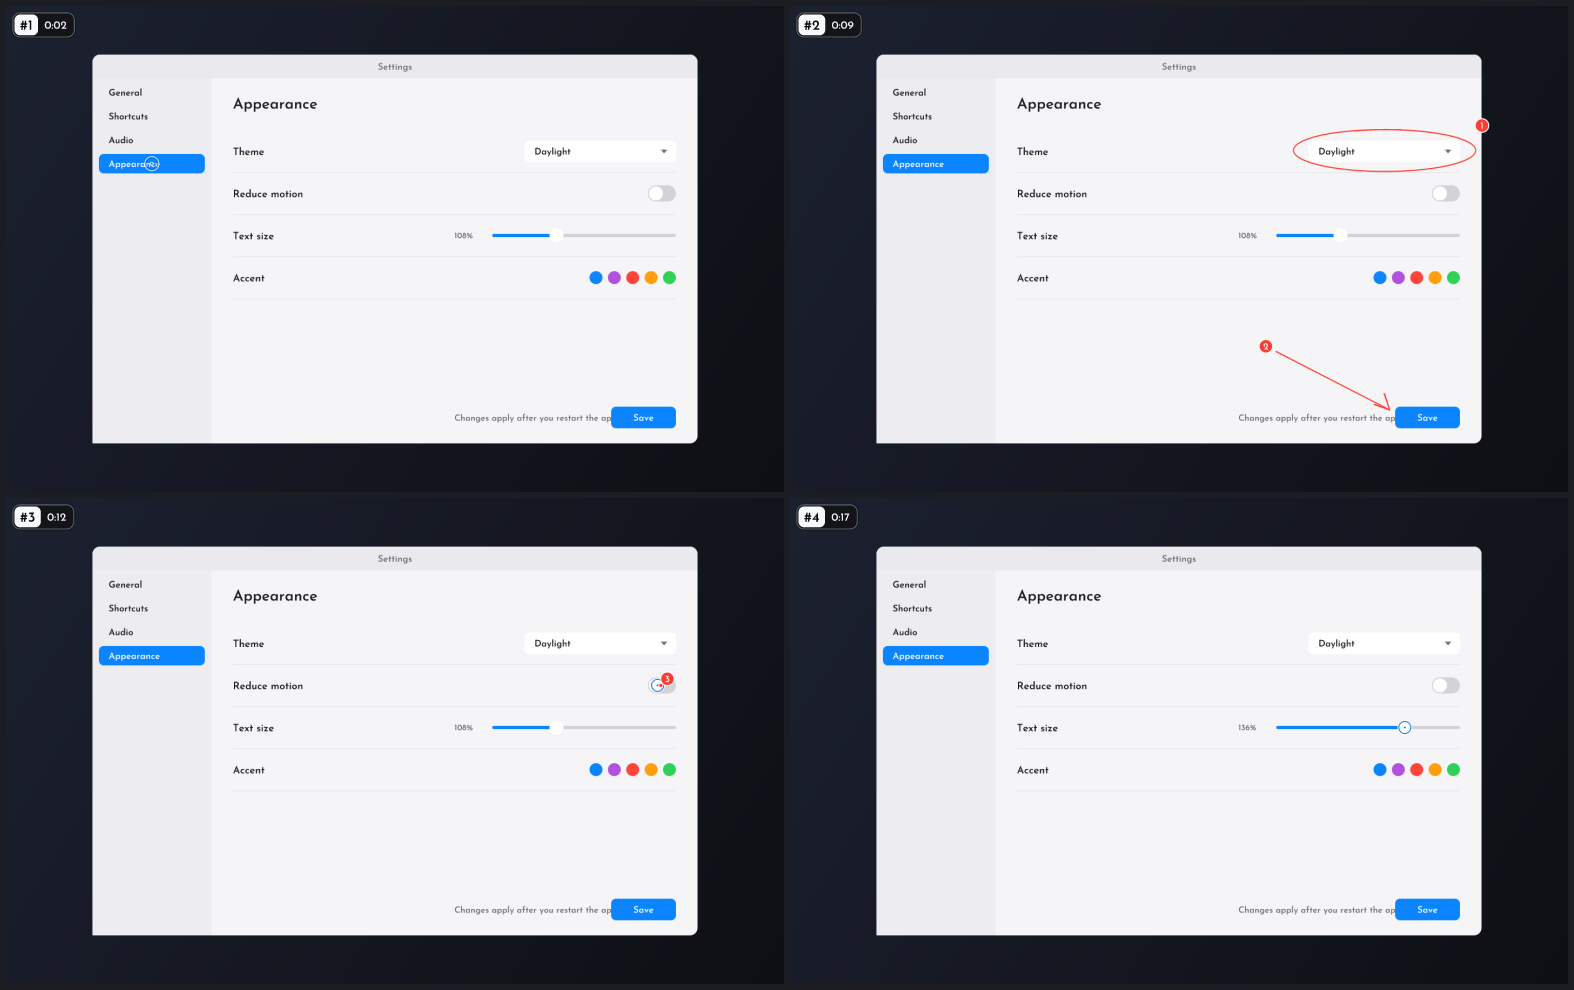
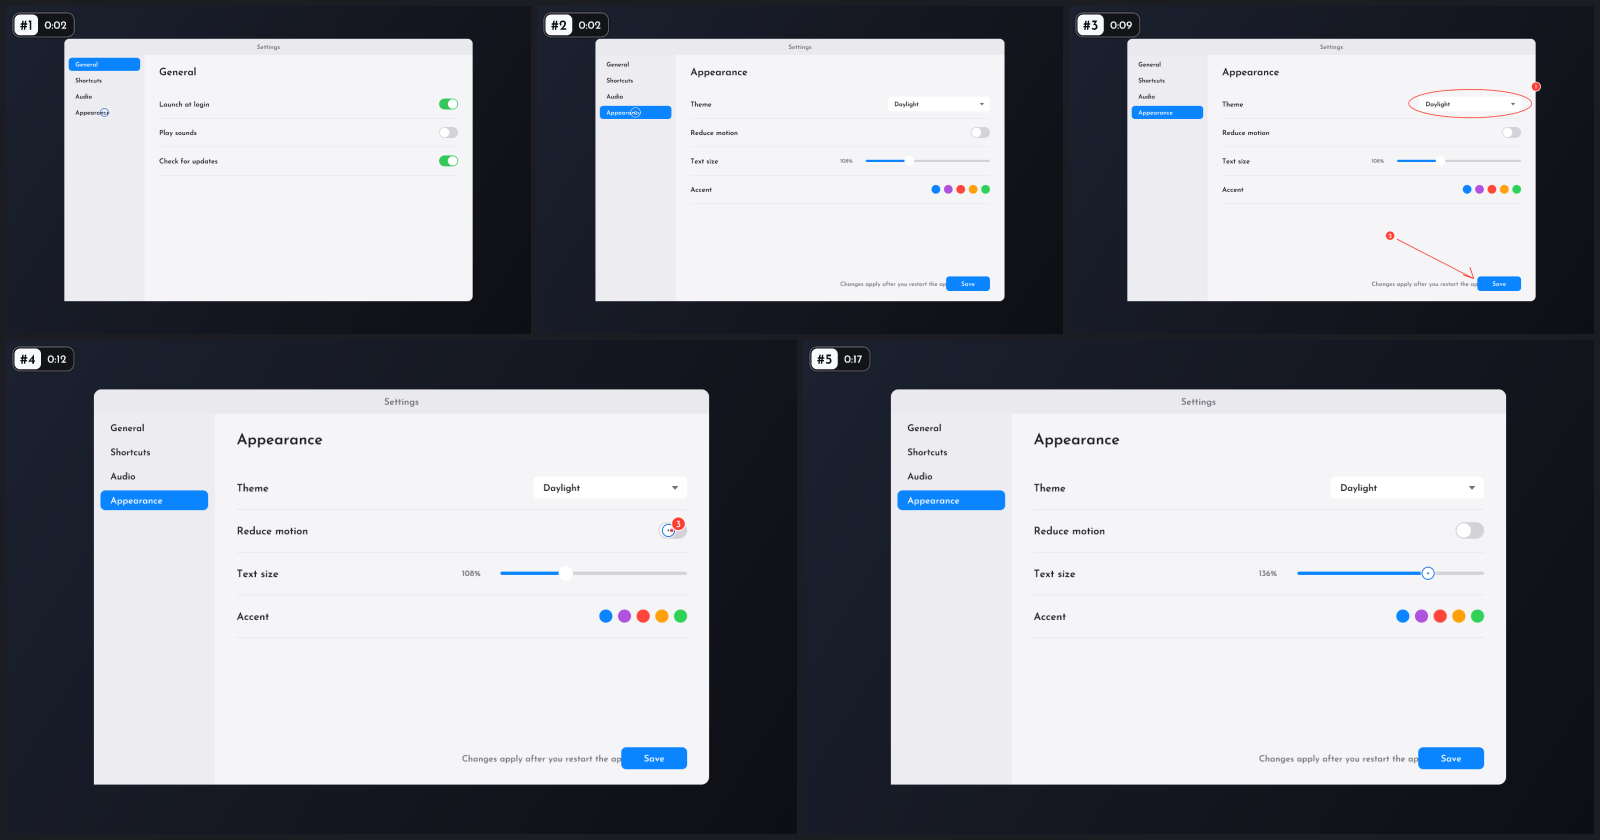
fix(show): preserve the screen described before the first change
Port the opening-screen selection from 9faa7a9 to the current clause alignment and click-settling rules.

diff --git a/crates/show/src/select.rs b/crates/show/src/select.rs
@@ -55,6 +55,8 @@ pub enum Reason {
     Cue,
     /// Nothing else stood out, so it shows the screen midway through.
     Middle,
+    /// Narration began over it, before the screen first changed.
+    Opening,
 }
 
 /// A frame chosen to show, with what happened on it and what was said.
@@ -135,12 +137,13 @@ pub struct Selection {
 ///
 /// Marks come first: every group of ink drawn on one screen gets a keyframe. Clicks, scene
 /// changes, and spoken cues such as "look here" add keyframes anywhere in the recording, and its
-/// last screen gets one unless the latest keyframe already shows it. A click's or cue's keyframe
-/// waits for the change it started or pointed at to settle, unless the screen is still changing
-/// two seconds on. While ink is drawn and just after, another keyframe is chosen only where the
-/// screen differs from the mark's, and the nearest mark's keyframe reports the last click or drag
-/// then without a keyframe of its own. A cue never repeats a screen already chosen, so talking
-/// over a still screen yields one frame.
+/// last screen gets one unless the latest keyframe already shows it. So does the screen before
+/// the first keyframe when it differs and whole clauses were said over it. A click's or cue's
+/// keyframe waits for the change it started or pointed at to settle, unless the screen is still
+/// changing two seconds on. While ink is drawn and just after, another keyframe is chosen only
+/// where the screen differs from the mark's, and the nearest mark's keyframe reports the last
+/// click or drag then without a keyframe of its own. A cue never repeats a screen already chosen,
+/// so talking over a still screen yields one frame.
 ///
 /// A Show holds at most 36 keyframes. Past that, the most alike neighboring marks merge until
 /// they fit, the last screen keeps its keyframe while marks leave it room, and the other keyframes
@@ -188,6 +191,15 @@ fn select_within(recording: &Recording, samples: &[Sample], most: usize) -> Opti
 
     let mut chosen = choose(candidates, &frames);
     chosen.sort_by_key(|candidate| frames.at(candidate.frame));
+    if let Some(first) = chosen.first() {
+        let anchor = first.anchor(&frames);
+        let opening = frames.opening_candidate(anchor);
+        if frames.novel(opening.frame, first.frame)
+            && align::said_before(anchor, &recording.narration)
+        {
+            chosen.insert(0, opening);
+        }
+    }
     if let Some(last) = chosen.last()
         && frames.novel(last.frame, frames.last())
     {
@@ -241,6 +253,8 @@ pub(crate) enum Basis {
     Cue { word: &'static str, snapped: bool },
     /// The screen midway through, when nothing else stood out.
     Middle,
+    /// The screen before the first keyframe's, which narration began over.
+    Opening,
 }
 
 impl Basis {
@@ -251,13 +265,18 @@ impl Basis {
             Self::SceneChange => Reason::SceneChange,
             Self::Cue { .. } => Reason::Cue,
             Self::Middle => Reason::Middle,
+            Self::Opening => Reason::Opening,
         }
     }
 
     fn marks(&self) -> Range<usize> {
         match self {
             Self::Mark { group, .. } => group.clone(),
-            Self::Click(_) | Self::SceneChange | Self::Cue { .. } | Self::Middle => 0..0,
+            Self::Click(_)
+            | Self::SceneChange
+            | Self::Cue { .. }
+            | Self::Middle
+            | Self::Opening => 0..0,
         }
     }
 
@@ -265,16 +284,18 @@ impl Basis {
         match *self {
             Self::Click(action) => Some(action),
             Self::Mark { during, .. } => during,
-            Self::SceneChange | Self::Cue { .. } | Self::Middle => None,
+            Self::SceneChange | Self::Cue { .. } | Self::Middle | Self::Opening => None,
         }
     }
 
     const fn tier(&self) -> Tier {
         match self {
             Self::Mark { .. } => Tier::Mark,
-            Self::Click(_) | Self::SceneChange | Self::Cue { snapped: true, .. } | Self::Middle => {
-                Tier::Ordinary
-            },
+            Self::Click(_)
+            | Self::SceneChange
+            | Self::Cue { snapped: true, .. }
+            | Self::Middle
+            | Self::Opening => Tier::Ordinary,
             Self::Cue { snapped: false, .. } => Tier::UnsnappedCue,
         }
     }
@@ -317,9 +338,14 @@ impl Candidate {
                 self.frame == candidate.frame
                     || (self.span.end().distance(candidate.span.end()) < FRAME_GAP && same_screen())
             },
-            (Basis::Click(_) | Basis::SceneChange | Basis::Cue { .. } | Basis::Middle, _) => {
-                self.near(frames, candidate.frame)
-            },
+            (
+                Basis::Click(_)
+                | Basis::SceneChange
+                | Basis::Cue { .. }
+                | Basis::Middle
+                | Basis::Opening,
+                _,
+            ) => self.near(frames, candidate.frame),
         }
     }
 
@@ -371,7 +397,7 @@ fn admits(chosen: &[Candidate], candidate: &Candidate, frames: &Frames<'_>) -> b
     };
     match candidate.basis {
         Basis::Mark { .. } => true,
-        Basis::Click(_) | Basis::Middle => !covered(),
+        Basis::Click(_) | Basis::Middle | Basis::Opening => !covered(),
         Basis::SceneChange | Basis::Cue { .. } => !covered() && novel(),
     }
 }

diff --git a/crates/show/src/demo.rs b/crates/show/src/demo.rs
@@ -470,7 +470,7 @@ mod tests {
     use crate::typeface::tests::typeface;
 
     #[test]
-    fn the_demo_tells_its_story_in_four_keyframes() {
+    fn the_demo_tells_its_story_in_five_keyframes() {
         let bundle = Demo::new(typeface()).bundle((720, 450)).unwrap();
         let expected = bundle.manifest.clone();
         let directory = Path::new("shows").join("demo");
@@ -478,19 +478,20 @@ mod tests {
         assert_eq!(
             summary,
             format!(
-                "Screen recording (0:20, 4 keyframes): `{}`
+                "Screen recording (0:20, 5 keyframes): `{}`
 Before acting, open the contact sheet, then the full-size frames that matter: they show what the words leave out. Speech recognition can mishear a name; where the screen spells it differently, trust the screen. Cite frames as #N and marks by their circled numbers.
 Contact sheet: `{}`
-- #1 (0:02) [clicked] “Here's the settings window. When I open Appearance,”
-- #2 (0:09) [① circled, ② drew an arrow] “the theme picker is here, but look, this label runs under the save button.”
-- #3 (0:12) [③ pinned, clicked] “Now I click reduce motion and nothing happens.”
-- #4 (0:17) [dragged right] “Dragging the text size slider works, though.”
+- #1 (0:02) “Here's the settings window.”
+- #2 (0:02) [clicked] “When I open Appearance,”
+- #3 (0:09) [① circled, ② drew an arrow] “the theme picker is here, but look, this label runs under the save button.”
+- #4 (0:12) [③ pinned, clicked] “Now I click reduce motion and nothing happens.”
+- #5 (0:17) [dragged right] “Dragging the text size slider works, though.”
 Full-size keyframes: `{}` to `{}`. Timeline: `{}`.
 ",
                 directory.display(),
                 directory.join("contact-sheet.png").display(),
                 directory.join("frames").join("frame-01.png").display(),
-                directory.join("frames").join("frame-04.png").display(),
+                directory.join("frames").join("frame-05.png").display(),
                 directory.join("show.json").display()
             )
         );
@@ -516,14 +517,15 @@ Full-size keyframes: `{}` to `{}`. Timeline: `{}`.
                 "frames/frame-02.png",
                 "frames/frame-03.png",
                 "frames/frame-04.png",
+                "frames/frame-05.png",
                 "summary.md",
                 "show.json"
             ]
         );
-        assert_eq!(files[5].contents, summary.as_bytes());
+        assert_eq!(files[6].contents, summary.as_bytes());
         let sheet = Image::decode_png(&files[0].contents);
         assert!(sheet.width().max(sheet.height()) <= 1_600);
-        let manifest: crate::Manifest = crate::Manifest::parse(&files[6].contents).unwrap();
+        let manifest: crate::Manifest = crate::Manifest::parse(&files[7].contents).unwrap();
         assert_eq!(manifest, expected);
     }
 }

diff --git a/crates/show/src/select/tests.rs b/crates/show/src/select/tests.rs
@@ -497,6 +497,55 @@ fn a_spoken_cue_never_waits_for_a_screen_that_keeps_changing() {
 }
 
 #[test]
+fn narration_before_the_first_change_keeps_the_screen_it_describes() {
+    // "Here's the list." over one screen, then a click opens another.
+    let opened = samples(250, 6_000, |at| if at < 3_250 { 40 } else { 220 });
+    let introduced = words(&[
+        (200, "Here's"),
+        (400, "the"),
+        (600, "list."),
+        (2_800, "When"),
+        (3_000, "I"),
+        (3_200, "open"),
+        (3_400, "it."),
+    ]);
+    let clicked = |narration| recording(Vec::new(), vec![click(3_000)], narration);
+    let shown = select(&clicked(introduced.clone()), &opened).unwrap();
+    assert_eq!(times(&shown), [2_750, 3_250]);
+    assert_eq!(shown.keyframes[0].reason, Reason::Opening);
+    assert_eq!(
+        shown.keyframes[0].event,
+        "the screen before the first change"
+    );
+    assert_eq!(
+        said(&shown),
+        [Some("Here's the list."), Some("When I open it.")]
+    );
+
+    // Not when the first keyframe shows that screen still, nor when nothing timed was said
+    // before it.
+    let still = samples(250, 6_000, |_| 40);
+    assert_eq!(
+        times(&select(&clicked(introduced), &still).unwrap()),
+        [3_250]
+    );
+    for untold in [
+        Narration::default(),
+        Narration::Text("Here's the list.".to_owned()),
+    ] {
+        assert_eq!(times(&select(&clicked(untold), &opened).unwrap()), [3_250]);
+    }
+
+    // Nor when what was said before it belongs to a clause still under way, which stays whole.
+    let ongoing = words(&[(0, "So"), (300, "I"), (600, "open"), (900, "it.")]);
+    let changed = samples(250, 6_000, |at| if at < 750 { 40 } else { 220 });
+    let early = recording(Vec::new(), vec![click(600)], ongoing);
+    let shown = select(&early, &changed).unwrap();
+    assert_eq!(times(&shown), [750]);
+    assert_eq!(said(&shown), [Some("So I open it.")]);
+}
+
+#[test]
 fn groups_close_at_a_click_or_too_much_ink() {
     let still = samples(250, 10_000, |_| 128);
     let shown = select(

diff --git a/crates/show/src/select/frames.rs b/crates/show/src/select/frames.rs
@@ -230,6 +230,17 @@ impl<'a> Frames<'a> {
         })
     }
 
+    /// The screen before `moment`, anchored at the recording's start so that it takes what was
+    /// said before anything else.
+    pub(super) fn opening_candidate(&self, moment: Moment) -> Candidate {
+        Candidate {
+            frame: self.last_before(moment),
+            span: Span::at(Moment::START),
+            score: 0.0,
+            basis: Basis::Opening,
+        }
+    }
+
     /// The recording's last screen, shown as a scene change.
     pub(super) fn last_candidate(&self) -> Candidate {
         let frame = self.last();

diff --git a/crates/show/src/align.rs b/crates/show/src/align.rs
@@ -134,6 +134,16 @@ pub(crate) fn align(anchors: &[Moment], narration: &Narration) -> Vec<Option<Str
         .collect()
 }
 
+pub(crate) fn said_before(anchor: Moment, narration: &Narration) -> bool {
+    let words = ordered(narration.words());
+    let starts = text_starts(&[anchor], &clauses(&words));
+    starts.first().is_some_and(|start| {
+        words
+            .first()
+            .is_some_and(|word| word.span.start().saturating_add(ONSET_TOLERANCE) < *start)
+    })
+}
+
 /// Words read as one clause.
 struct Clause {
     first: usize,

diff --git a/crates/show/src/describe.rs b/crates/show/src/describe.rs
@@ -31,6 +31,7 @@ pub(crate) fn event(basis: &Basis, marks: &[Mark]) -> String {
             snapped: false,
         } => format!("said “{word}”"),
         Basis::Middle => "the screen midway through".to_owned(),
+        Basis::Opening => "the screen before the first change".to_owned(),
     }
 }
 

diff --git a/README.md b/README.md
@@ -136,14 +136,15 @@ recovery. Mac window Shows currently retain sampled frames only.
 On Windows, the summary for that contact sheet reads as follows:
 
 ```text
-Screen recording (0:20, 4 keyframes): `…\speakeasy\shows\20261020T143205Z`
+Screen recording (0:20, 5 keyframes): `…\speakeasy\shows\20261020T143205Z`
 Before acting, open the contact sheet, then the full-size frames that matter: they show what the words leave out. Speech recognition can mishear a name; where the screen spells it differently, trust the screen. Cite frames as #N and marks by their circled numbers.
 Contact sheet: `…\speakeasy\shows\20261020T143205Z\contact-sheet.png`
-- #1 (0:02) [clicked] “Here's the settings window. When I open Appearance,”
-- #2 (0:09) [① circled, ② drew an arrow] “the theme picker is here, but look, this label runs under the save button.”
-- #3 (0:12) [③ pinned, clicked] “Now I click reduce motion and nothing happens.”
-- #4 (0:17) [dragged right] “Dragging the text size slider works, though.”
-Full-size keyframes: `…\speakeasy\shows\20261020T143205Z\frames\frame-01.png` to `…\speakeasy\shows\20261020T143205Z\frames\frame-04.png`. Timeline: `…\speakeasy\shows\20261020T143205Z\show.json`.
+- #1 (0:02) “Here's the settings window.”
+- #2 (0:02) [clicked] “When I open Appearance,”
+- #3 (0:09) [① circled, ② drew an arrow] “the theme picker is here, but look, this label runs under the save button.”
+- #4 (0:12) [③ pinned, clicked] “Now I click reduce motion and nothing happens.”
+- #5 (0:17) [dragged right] “Dragging the text size slider works, though.”
+Full-size keyframes: `…\speakeasy\shows\20261020T143205Z\frames\frame-01.png` to `…\speakeasy\shows\20261020T143205Z\frames\frame-05.png`. Timeline: `…\speakeasy\shows\20261020T143205Z\show.json`.
 ```
 
 A Show records only what you name. With no window to record under the pointer, or if you finish
